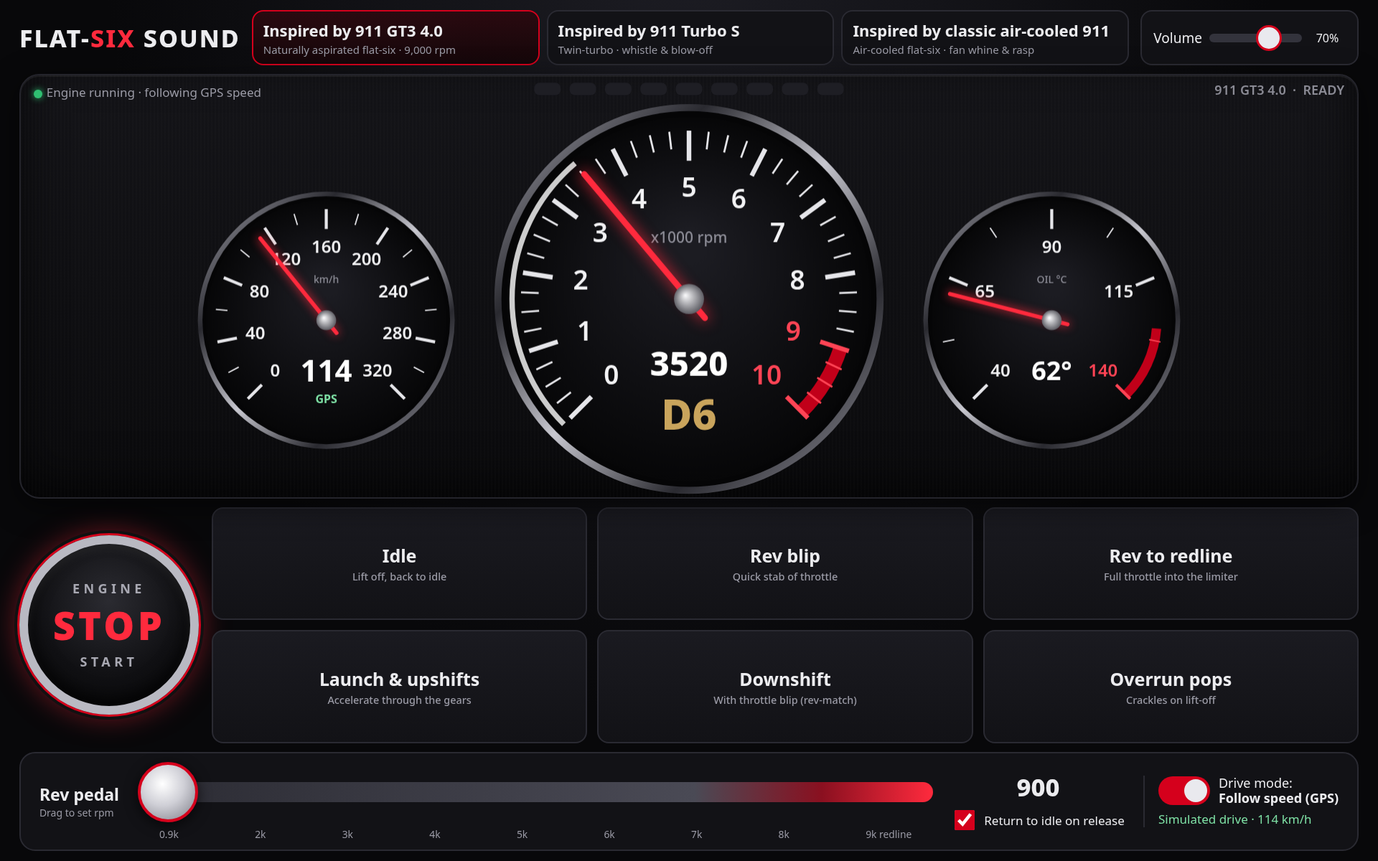
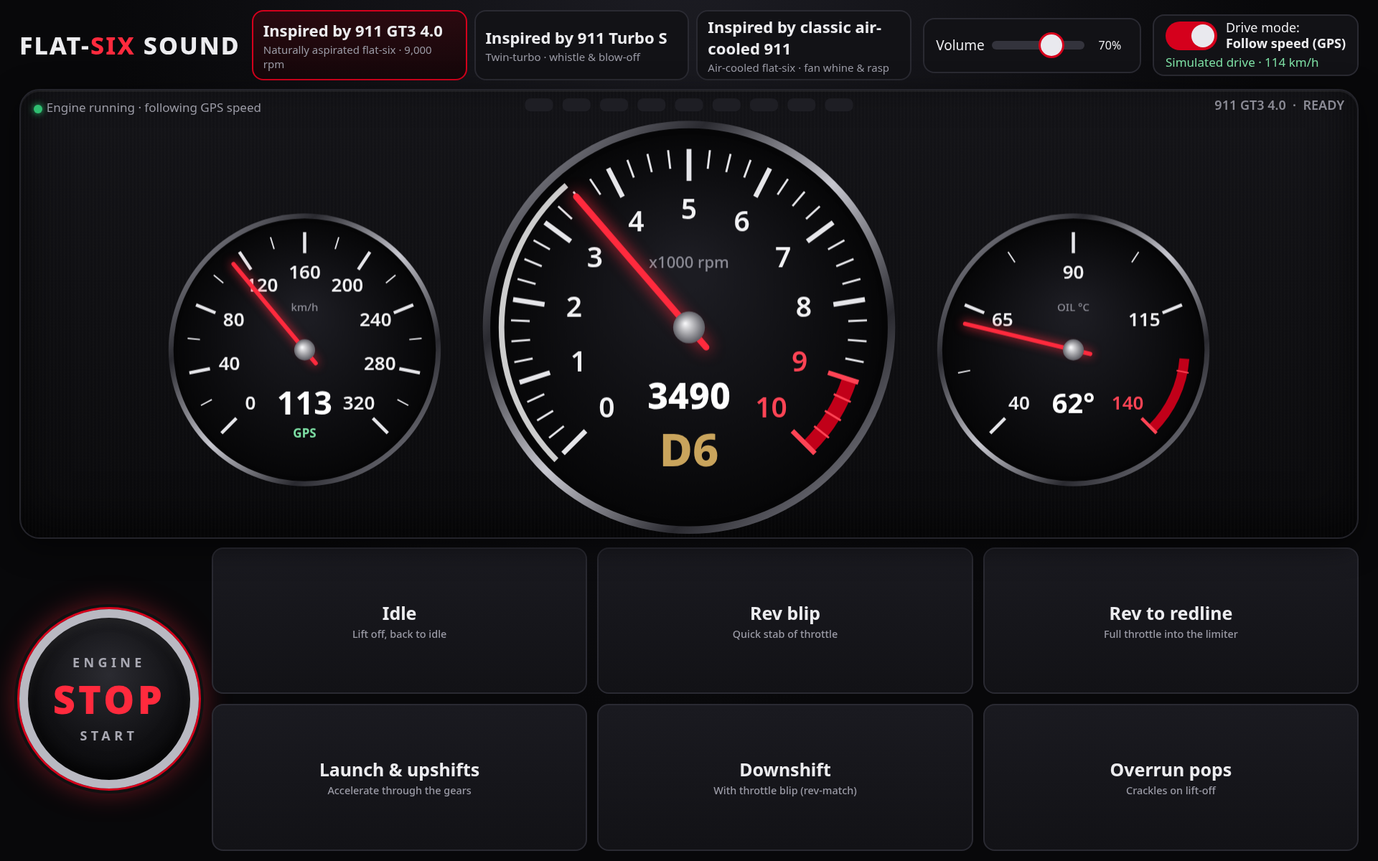
Remove manual rev pedal slider; GPS-off/unavailable now idles; tidy layout; SW cache v4

diff --git a/index.html b/index.html
@@ -37,7 +37,7 @@ h1 span{color:var(--red2)}
 .status i{display:inline-block;width:.7em;height:.7em;border-radius:50%;background:#555;margin-right:6px;vertical-align:middle}
 .status.on i{background:var(--ok);box-shadow:0 0 10px var(--ok)}
 .status.crank i{background:var(--gold)}
-.controls{display:flex;gap:clamp(10px,1vw,18px);flex:.7;min-height:0;align-items:stretch}
+.controls{display:flex;gap:clamp(10px,1vw,18px);flex:.85;min-height:0;align-items:stretch}
 .controls .grid{flex:1;display:grid;grid-template-columns:repeat(3,1fr);grid-auto-rows:1fr;gap:clamp(8px,.8vw,14px);min-width:0}
 .startstop{flex:none;align-self:center;width:clamp(170px,22vh,250px);height:clamp(170px,22vh,250px);border-radius:50%;cursor:pointer;touch-action:manipulation;
   display:flex;flex-direction:column;align-items:center;justify-content:center;gap:2px;color:#f2f2f4;
@@ -48,7 +48,7 @@ h1 span{color:var(--red2)}
 .startstop .ss-main{font-size:clamp(34px,4.6vh,54px);font-weight:900;letter-spacing:.08em}
 .startstop[aria-pressed="true"]{box-shadow:0 0 0 3px #d5001c,0 0 0 7px #111,0 0 40px #ff2a3d88,inset 0 6px 14px #ffffff14,inset 0 -10px 24px #000c}
 .startstop[aria-pressed="true"] .ss-main{color:#ff2a3d}
-.drive{display:flex;flex-direction:column;gap:6px;align-items:flex-start;padding-left:clamp(10px,1vw,20px);border-left:2px solid var(--line)}
+.drive{display:flex;flex-direction:column;gap:4px;justify-content:center;background:var(--panel);border:2px solid var(--line);border-radius:var(--radius);padding:6px 16px;min-height:clamp(56px,6.4vh,80px)}
 .switch{display:flex;align-items:center;gap:12px;cursor:pointer;font-size:clamp(13px,.95vw,18px);line-height:1.2}
 .switch input{position:absolute;opacity:0;width:1px;height:1px}
 .switch .knob{width:72px;height:40px;border-radius:20px;background:#33333c;position:relative;flex:none;transition:background .15s}
@@ -64,23 +64,11 @@ h1 span{color:var(--red2)}
 .btn.start{border-color:#1f6b45;background:linear-gradient(180deg,#123222,#0b1a12)}
 .btn.off{border-color:#6b1f28;background:linear-gradient(180deg,#32121a,#1a0b0e)}
 .btn.active{border-color:var(--red2);box-shadow:0 0 0 2px var(--red) inset}
-.revbar{background:var(--panel);border:2px solid var(--line);border-radius:22px;padding:clamp(6px,1vh,14px) clamp(14px,1.4vw,26px);display:grid;grid-template-columns:auto 1fr auto auto;align-items:center;gap:clamp(12px,1.4vw,26px)}
-.revbar .lbl{font-size:clamp(16px,1.2vw,24px);font-weight:700;white-space:nowrap}
-.revbar .lbl small{display:block;font-weight:400;font-size:clamp(11px,.75vw,14px);color:var(--dim)}
-.revval{font-size:clamp(20px,1.8vw,36px);font-weight:800;font-variant-numeric:tabular-nums;min-width:6ch;text-align:center}
-.ticks{display:flex;justify-content:space-between;font-size:clamp(11px,.72vw,14px);color:var(--dim);padding:0 30px;margin-top:2px}
 input[type=range]{-webkit-appearance:none;appearance:none;width:100%;background:transparent;margin:0;touch-action:none}
 input[type=range]:focus{outline:none}
-#rev{height:clamp(60px,7vh,90px)}
-#rev::-webkit-slider-runnable-track{height:28px;border-radius:14px;background:linear-gradient(90deg,#2b2b33 0%,#4a4a55 70%,#8a1020 86%,var(--red2) 100%)}
-#rev::-webkit-slider-thumb{-webkit-appearance:none;width:clamp(58px,4.4vw,84px);height:clamp(58px,4.4vw,84px);margin-top:calc((28px - clamp(58px,4.4vw,84px))/2);border-radius:50%;background:radial-gradient(circle at 40% 35%,#fff,#cfcfd6 45%,#7c7c86);border:4px solid var(--red);box-shadow:0 4px 18px #000a}
-#rev::-moz-range-track{height:28px;border-radius:14px;background:linear-gradient(90deg,#2b2b33,#4a4a55 70%,#8a1020 86%,var(--red2))}
-#rev::-moz-range-thumb{width:70px;height:70px;border-radius:50%;background:#ddd;border:4px solid var(--red)}
 .vol input::-webkit-slider-runnable-track{height:12px;border-radius:6px;background:#33333c}
 .vol input::-webkit-slider-thumb{-webkit-appearance:none;width:36px;height:36px;margin-top:-12px;border-radius:50%;background:#e9e9ee;border:3px solid var(--red)}
-.chk{display:flex;align-items:center;gap:10px;font-size:clamp(13px,.9vw,17px);white-space:nowrap;cursor:pointer}
-.chk input{width:28px;height:28px;accent-color:var(--red)}
-@media (max-width:1100px){html,body{overflow:auto}.controls .grid{grid-template-columns:1fr 1fr}.revbar{grid-template-columns:1fr}.cluster{min-height:320px}header{flex-wrap:wrap}}
+@media (max-width:1100px){html,body{overflow:auto}.controls .grid{grid-template-columns:1fr 1fr}.cluster{min-height:320px}header{flex-wrap:wrap}}
 </style>
 </head>
 <body>
@@ -88,6 +76,10 @@ input[type=range]:focus{outline:none}
   <h1>Flat-<span>Six</span> Sound</h1>
   <div class="presets" id="presets" role="group" aria-label="Engine character"></div>
   <div class="vol"><label for="vol">Volume</label><input type="range" id="vol" min="0" max="100" value="70"><output id="volOut">70%</output></div>
+  <div class="drive">
+    <label class="switch"><input type="checkbox" id="driveMode" checked><span class="knob"></span><span class="sw-lbl">Drive mode:<br><b>Follow speed (GPS)</b></span></label>
+    <div class="gps" id="gpsStatus">GPS off - idle</div>
+  </div>
 </header>
 <section class="cluster">
   <div class="status" id="status"><i></i><span id="statusTxt">Engine off</span></div>
@@ -102,16 +94,6 @@ input[type=range]:focus{outline:none}
     <button class="btn" data-cmd="launch">Launch &amp; upshifts<small>Accelerate through the gears</small></button>
     <button class="btn" data-cmd="downshift">Downshift<small>With throttle blip (rev-match)</small></button>
     <button class="btn" data-cmd="pops">Overrun pops<small>Crackles on lift-off</small></button>
-  </div>
-</section>
-<section class="revbar">
-  <div class="lbl">Rev pedal<small>Drag to set rpm</small></div>
-  <div><input type="range" id="rev" min="900" max="9000" step="10" value="900" aria-label="Target rpm"><div class="ticks" id="ticks"></div></div>
-  <div style="display:flex;flex-direction:column;align-items:center;gap:6px"><div class="revval" id="revVal">900</div>
-    <label class="chk"><input type="checkbox" id="springBack" checked>Return to idle on release</label></div>
-  <div class="drive">
-    <label class="switch"><input type="checkbox" id="driveMode" checked><span class="knob"></span><span class="sw-lbl">Drive mode:<br><b>Follow speed (GPS)</b></span></label>
-    <div class="gps" id="gpsStatus">GPS off</div>
   </div>
 </section>
 <script>
@@ -618,15 +600,7 @@ function setPreset(k) {
   document.querySelectorAll('.preset').forEach(b => b.setAttribute('aria-pressed', b.dataset.preset === k ? 'true' : 'false'));
   app.sim.setPreset(p);
   if (app.ctx) { const old = app.eng; app.eng = new Engine(app.ctx, p, app.ctx.destination); app.eng.out.gain.value = 0; app.eng.start(); app.eng.setVolume(app.vol); old.stop(); }
-  const rev = $('rev'); rev.min = p.idle; rev.max = p.redline; if (!app.sim.sliderTarget) rev.value = p.idle;
-  buildTicks(); updateRevVal();
 }
-function buildTicks() {
-  const p = PRESETS[app.preset], t = $('ticks'); t.innerHTML = '';
-  const marks = [p.idle]; for (let r = 2000; r < p.redline; r += 1000) marks.push(r); marks.push(p.redline);
-  for (const m of marks) { const s = document.createElement('span'); s.textContent = (m / 1000).toFixed(1).replace('.0', '') + 'k' + (m >= p.redline ? ' redline' : ''); t.appendChild(s); }
-}
-buildTicks();
 
 async function unlock() {
   if (app.ctx) return;
@@ -643,8 +617,8 @@ async function unlock() {
 
 /* ---------- GPS speed source (Follow-speed drive mode) ---------- */
 const gps = { id: null, status: 'off', kmh: null, acc: 0, fixT: 0, last: null, sim: /[?&]sim=1\b/.test(location.search), simTimer: null };
-const GPS_TXT = { off: 'GPS off', waiting: 'Waiting for GPS…', denied: 'Location permission denied', unavailable: 'GPS unavailable',
-  unsupported: 'Location not supported', insecure: 'Location needs HTTPS', timeout: 'GPS timeout – retrying', lost: 'GPS signal lost' };
+const GPS_TXT = { off: 'GPS off - idle', waiting: 'Waiting for GPS…', denied: 'Location denied - idle', unavailable: 'GPS unavailable - idle',
+  unsupported: 'Location not supported', insecure: 'Location needs HTTPS', timeout: 'GPS timeout – retrying', lost: 'GPS signal lost - idle' };
 function haversine(a, b) {
   const R = 6371000, toR = x => x * Math.PI / 180, dLa = toR(b.lat - a.lat), dLo = toR(b.lon - a.lon);
   const h = Math.sin(dLa / 2) ** 2 + Math.cos(toR(a.lat)) * Math.cos(toR(b.lat)) * Math.sin(dLo / 2) ** 2;
@@ -728,22 +702,9 @@ function tick() {
 document.querySelectorAll('[data-cmd]').forEach(b => b.addEventListener('click', () => {
   if (!app.ctx) unlock();
   if (app.ctx && app.ctx.state !== 'running') app.ctx.resume();
-  app.sim.sliderTarget = null; $('rev').value = PRESETS[app.preset].idle; updateRevVal();
   app.sim.command(b.dataset.cmd);
 }));
 
-const rev = $('rev');
-function updateRevVal() { $('revVal').textContent = Number(rev.value).toLocaleString('en-US'); }
-rev.addEventListener('input', () => {
-  if (!app.ctx) unlock();
-  const sim = app.sim;
-  if (!sim.running && !sim.cranking) sim.command('start');
-  else if (sim.prog && sim.prog.name !== 'start') { sim.prog = null; sim.gear = 0; sim.brake = 0; sim.shift = null; }
-  sim.sliderTarget = Number(rev.value); updateRevVal();
-});
-const release = () => { if ($('springBack').checked) { rev.value = PRESETS[app.preset].idle; app.sim.sliderTarget = null; updateRevVal(); } };
-['pointerup', 'touchend', 'touchcancel', 'mouseup', 'change'].forEach(ev => rev.addEventListener(ev, release));
-$('springBack').addEventListener('change', () => { if ($('springBack').checked) release(); });
 $('vol').addEventListener('input', e => { app.vol = e.target.value / 100; $('volOut').textContent = e.target.value + '%'; if (app.eng) app.eng.setVolume(app.vol); });
 
 
@@ -831,7 +792,7 @@ function draw() {
   $('statusTxt').textContent = { on: 'Engine running', crank: 'Cranking…', stopping: 'Shutting down…', off: 'Engine off' }[st] + (sim.drive ? ' · following GPS speed' : '') + (app.ctx && app.ctx.state !== 'running' ? ' · audio paused' : '');
   const on = sim.running || sim.cranking, sb = $('startBtn');
   if (sb.getAttribute('aria-pressed') !== String(on)) { sb.setAttribute('aria-pressed', String(on)); $('ssMain').textContent = on ? 'STOP' : 'START'; $('ssBot').textContent = on ? 'START' : 'STOP'; }
-  const ge = $('gpsStatus'), gt = !$('driveMode').checked ? 'Manual rev pedal' : gps.status === 'ok' ? (gps.sim ? 'Simulated drive · ' : 'GPS · ') + Math.round(gps.kmh) + ' km/h' : GPS_TXT[gps.status];
+  const ge = $('gpsStatus'), gt = !$('driveMode').checked ? 'GPS off - idle' : gps.status === 'ok' ? (gps.sim ? 'Simulated drive · ' : 'GPS · ') + Math.round(gps.kmh) + ' km/h' : GPS_TXT[gps.status];
   if (ge.textContent !== gt) ge.textContent = gt;
   ge.className = 'gps' + (gps.status === 'ok' && $('driveMode').checked ? ' ok' : '');
   document.querySelectorAll('[data-cmd]').forEach(b => b.classList.toggle('active', !!(sim.prog && sim.prog.name === b.dataset.cmd)));

diff --git a/porsche-sound-standalone.html b/porsche-sound-standalone.html
@@ -34,7 +34,7 @@ h1 span{color:var(--red2)}
 .status i{display:inline-block;width:.7em;height:.7em;border-radius:50%;background:#555;margin-right:6px;vertical-align:middle}
 .status.on i{background:var(--ok);box-shadow:0 0 10px var(--ok)}
 .status.crank i{background:var(--gold)}
-.controls{display:flex;gap:clamp(10px,1vw,18px);flex:.7;min-height:0;align-items:stretch}
+.controls{display:flex;gap:clamp(10px,1vw,18px);flex:.85;min-height:0;align-items:stretch}
 .controls .grid{flex:1;display:grid;grid-template-columns:repeat(3,1fr);grid-auto-rows:1fr;gap:clamp(8px,.8vw,14px);min-width:0}
 .startstop{flex:none;align-self:center;width:clamp(170px,22vh,250px);height:clamp(170px,22vh,250px);border-radius:50%;cursor:pointer;touch-action:manipulation;
   display:flex;flex-direction:column;align-items:center;justify-content:center;gap:2px;color:#f2f2f4;
@@ -45,7 +45,7 @@ h1 span{color:var(--red2)}
 .startstop .ss-main{font-size:clamp(34px,4.6vh,54px);font-weight:900;letter-spacing:.08em}
 .startstop[aria-pressed="true"]{box-shadow:0 0 0 3px #d5001c,0 0 0 7px #111,0 0 40px #ff2a3d88,inset 0 6px 14px #ffffff14,inset 0 -10px 24px #000c}
 .startstop[aria-pressed="true"] .ss-main{color:#ff2a3d}
-.drive{display:flex;flex-direction:column;gap:6px;align-items:flex-start;padding-left:clamp(10px,1vw,20px);border-left:2px solid var(--line)}
+.drive{display:flex;flex-direction:column;gap:4px;justify-content:center;background:var(--panel);border:2px solid var(--line);border-radius:var(--radius);padding:6px 16px;min-height:clamp(56px,6.4vh,80px)}
 .switch{display:flex;align-items:center;gap:12px;cursor:pointer;font-size:clamp(13px,.95vw,18px);line-height:1.2}
 .switch input{position:absolute;opacity:0;width:1px;height:1px}
 .switch .knob{width:72px;height:40px;border-radius:20px;background:#33333c;position:relative;flex:none;transition:background .15s}
@@ -61,23 +61,11 @@ h1 span{color:var(--red2)}
 .btn.start{border-color:#1f6b45;background:linear-gradient(180deg,#123222,#0b1a12)}
 .btn.off{border-color:#6b1f28;background:linear-gradient(180deg,#32121a,#1a0b0e)}
 .btn.active{border-color:var(--red2);box-shadow:0 0 0 2px var(--red) inset}
-.revbar{background:var(--panel);border:2px solid var(--line);border-radius:22px;padding:clamp(6px,1vh,14px) clamp(14px,1.4vw,26px);display:grid;grid-template-columns:auto 1fr auto auto;align-items:center;gap:clamp(12px,1.4vw,26px)}
-.revbar .lbl{font-size:clamp(16px,1.2vw,24px);font-weight:700;white-space:nowrap}
-.revbar .lbl small{display:block;font-weight:400;font-size:clamp(11px,.75vw,14px);color:var(--dim)}
-.revval{font-size:clamp(20px,1.8vw,36px);font-weight:800;font-variant-numeric:tabular-nums;min-width:6ch;text-align:center}
-.ticks{display:flex;justify-content:space-between;font-size:clamp(11px,.72vw,14px);color:var(--dim);padding:0 30px;margin-top:2px}
 input[type=range]{-webkit-appearance:none;appearance:none;width:100%;background:transparent;margin:0;touch-action:none}
 input[type=range]:focus{outline:none}
-#rev{height:clamp(60px,7vh,90px)}
-#rev::-webkit-slider-runnable-track{height:28px;border-radius:14px;background:linear-gradient(90deg,#2b2b33 0%,#4a4a55 70%,#8a1020 86%,var(--red2) 100%)}
-#rev::-webkit-slider-thumb{-webkit-appearance:none;width:clamp(58px,4.4vw,84px);height:clamp(58px,4.4vw,84px);margin-top:calc((28px - clamp(58px,4.4vw,84px))/2);border-radius:50%;background:radial-gradient(circle at 40% 35%,#fff,#cfcfd6 45%,#7c7c86);border:4px solid var(--red);box-shadow:0 4px 18px #000a}
-#rev::-moz-range-track{height:28px;border-radius:14px;background:linear-gradient(90deg,#2b2b33,#4a4a55 70%,#8a1020 86%,var(--red2))}
-#rev::-moz-range-thumb{width:70px;height:70px;border-radius:50%;background:#ddd;border:4px solid var(--red)}
 .vol input::-webkit-slider-runnable-track{height:12px;border-radius:6px;background:#33333c}
 .vol input::-webkit-slider-thumb{-webkit-appearance:none;width:36px;height:36px;margin-top:-12px;border-radius:50%;background:#e9e9ee;border:3px solid var(--red)}
-.chk{display:flex;align-items:center;gap:10px;font-size:clamp(13px,.9vw,17px);white-space:nowrap;cursor:pointer}
-.chk input{width:28px;height:28px;accent-color:var(--red)}
-@media (max-width:1100px){html,body{overflow:auto}.controls .grid{grid-template-columns:1fr 1fr}.revbar{grid-template-columns:1fr}.cluster{min-height:320px}header{flex-wrap:wrap}}
+@media (max-width:1100px){html,body{overflow:auto}.controls .grid{grid-template-columns:1fr 1fr}.cluster{min-height:320px}header{flex-wrap:wrap}}
 </style>
 </head>
 <body>
@@ -85,6 +73,10 @@ input[type=range]:focus{outline:none}
   <h1>Flat-<span>Six</span> Sound</h1>
   <div class="presets" id="presets" role="group" aria-label="Engine character"></div>
   <div class="vol"><label for="vol">Volume</label><input type="range" id="vol" min="0" max="100" value="70"><output id="volOut">70%</output></div>
+  <div class="drive">
+    <label class="switch"><input type="checkbox" id="driveMode" checked><span class="knob"></span><span class="sw-lbl">Drive mode:<br><b>Follow speed (GPS)</b></span></label>
+    <div class="gps" id="gpsStatus">GPS off - idle</div>
+  </div>
 </header>
 <section class="cluster">
   <div class="status" id="status"><i></i><span id="statusTxt">Engine off</span></div>
@@ -99,16 +91,6 @@ input[type=range]:focus{outline:none}
     <button class="btn" data-cmd="launch">Launch &amp; upshifts<small>Accelerate through the gears</small></button>
     <button class="btn" data-cmd="downshift">Downshift<small>With throttle blip (rev-match)</small></button>
     <button class="btn" data-cmd="pops">Overrun pops<small>Crackles on lift-off</small></button>
-  </div>
-</section>
-<section class="revbar">
-  <div class="lbl">Rev pedal<small>Drag to set rpm</small></div>
-  <div><input type="range" id="rev" min="900" max="9000" step="10" value="900" aria-label="Target rpm"><div class="ticks" id="ticks"></div></div>
-  <div style="display:flex;flex-direction:column;align-items:center;gap:6px"><div class="revval" id="revVal">900</div>
-    <label class="chk"><input type="checkbox" id="springBack" checked>Return to idle on release</label></div>
-  <div class="drive">
-    <label class="switch"><input type="checkbox" id="driveMode" checked><span class="knob"></span><span class="sw-lbl">Drive mode:<br><b>Follow speed (GPS)</b></span></label>
-    <div class="gps" id="gpsStatus">GPS off</div>
   </div>
 </section>
 <script>
@@ -615,15 +597,7 @@ function setPreset(k) {
   document.querySelectorAll('.preset').forEach(b => b.setAttribute('aria-pressed', b.dataset.preset === k ? 'true' : 'false'));
   app.sim.setPreset(p);
   if (app.ctx) { const old = app.eng; app.eng = new Engine(app.ctx, p, app.ctx.destination); app.eng.out.gain.value = 0; app.eng.start(); app.eng.setVolume(app.vol); old.stop(); }
-  const rev = $('rev'); rev.min = p.idle; rev.max = p.redline; if (!app.sim.sliderTarget) rev.value = p.idle;
-  buildTicks(); updateRevVal();
 }
-function buildTicks() {
-  const p = PRESETS[app.preset], t = $('ticks'); t.innerHTML = '';
-  const marks = [p.idle]; for (let r = 2000; r < p.redline; r += 1000) marks.push(r); marks.push(p.redline);
-  for (const m of marks) { const s = document.createElement('span'); s.textContent = (m / 1000).toFixed(1).replace('.0', '') + 'k' + (m >= p.redline ? ' redline' : ''); t.appendChild(s); }
-}
-buildTicks();
 
 async function unlock() {
   if (app.ctx) return;
@@ -640,8 +614,8 @@ async function unlock() {
 
 /* ---------- GPS speed source (Follow-speed drive mode) ---------- */
 const gps = { id: null, status: 'off', kmh: null, acc: 0, fixT: 0, last: null, sim: /[?&]sim=1\b/.test(location.search), simTimer: null };
-const GPS_TXT = { off: 'GPS off', waiting: 'Waiting for GPS…', denied: 'Location permission denied', unavailable: 'GPS unavailable',
-  unsupported: 'Location not supported', insecure: 'Location needs HTTPS', timeout: 'GPS timeout – retrying', lost: 'GPS signal lost' };
+const GPS_TXT = { off: 'GPS off - idle', waiting: 'Waiting for GPS…', denied: 'Location denied - idle', unavailable: 'GPS unavailable - idle',
+  unsupported: 'Location not supported', insecure: 'Location needs HTTPS', timeout: 'GPS timeout – retrying', lost: 'GPS signal lost - idle' };
 function haversine(a, b) {
   const R = 6371000, toR = x => x * Math.PI / 180, dLa = toR(b.lat - a.lat), dLo = toR(b.lon - a.lon);
   const h = Math.sin(dLa / 2) ** 2 + Math.cos(toR(a.lat)) * Math.cos(toR(b.lat)) * Math.sin(dLo / 2) ** 2;
@@ -725,22 +699,9 @@ function tick() {
 document.querySelectorAll('[data-cmd]').forEach(b => b.addEventListener('click', () => {
   if (!app.ctx) unlock();
   if (app.ctx && app.ctx.state !== 'running') app.ctx.resume();
-  app.sim.sliderTarget = null; $('rev').value = PRESETS[app.preset].idle; updateRevVal();
   app.sim.command(b.dataset.cmd);
 }));
 
-const rev = $('rev');
-function updateRevVal() { $('revVal').textContent = Number(rev.value).toLocaleString('en-US'); }
-rev.addEventListener('input', () => {
-  if (!app.ctx) unlock();
-  const sim = app.sim;
-  if (!sim.running && !sim.cranking) sim.command('start');
-  else if (sim.prog && sim.prog.name !== 'start') { sim.prog = null; sim.gear = 0; sim.brake = 0; sim.shift = null; }
-  sim.sliderTarget = Number(rev.value); updateRevVal();
-});
-const release = () => { if ($('springBack').checked) { rev.value = PRESETS[app.preset].idle; app.sim.sliderTarget = null; updateRevVal(); } };
-['pointerup', 'touchend', 'touchcancel', 'mouseup', 'change'].forEach(ev => rev.addEventListener(ev, release));
-$('springBack').addEventListener('change', () => { if ($('springBack').checked) release(); });
 $('vol').addEventListener('input', e => { app.vol = e.target.value / 100; $('volOut').textContent = e.target.value + '%'; if (app.eng) app.eng.setVolume(app.vol); });
 
 
@@ -828,7 +789,7 @@ function draw() {
   $('statusTxt').textContent = { on: 'Engine running', crank: 'Cranking…', stopping: 'Shutting down…', off: 'Engine off' }[st] + (sim.drive ? ' · following GPS speed' : '') + (app.ctx && app.ctx.state !== 'running' ? ' · audio paused' : '');
   const on = sim.running || sim.cranking, sb = $('startBtn');
   if (sb.getAttribute('aria-pressed') !== String(on)) { sb.setAttribute('aria-pressed', String(on)); $('ssMain').textContent = on ? 'STOP' : 'START'; $('ssBot').textContent = on ? 'START' : 'STOP'; }
-  const ge = $('gpsStatus'), gt = !$('driveMode').checked ? 'Manual rev pedal' : gps.status === 'ok' ? (gps.sim ? 'Simulated drive · ' : 'GPS · ') + Math.round(gps.kmh) + ' km/h' : GPS_TXT[gps.status];
+  const ge = $('gpsStatus'), gt = !$('driveMode').checked ? 'GPS off - idle' : gps.status === 'ok' ? (gps.sim ? 'Simulated drive · ' : 'GPS · ') + Math.round(gps.kmh) + ' km/h' : GPS_TXT[gps.status];
   if (ge.textContent !== gt) ge.textContent = gt;
   ge.className = 'gps' + (gps.status === 'ok' && $('driveMode').checked ? ' ok' : '');
   document.querySelectorAll('[data-cmd]').forEach(b => b.classList.toggle('active', !!(sim.prog && sim.prog.name === b.dataset.cmd)));

diff --git a/sw.js b/sw.js
@@ -1,5 +1,5 @@
 /* Service worker: caches the whole app for offline use after the first online load. */
-const CACHE = 'boxer6-v3-drive';
+const CACHE = 'boxer6-v4-noslider';
 const ASSETS = ['./', './index.html', './manifest.json', './icon.svg', './icon-192.png', './icon-512.png'];
 
 self.addEventListener('install', (e) => {

diff --git a/README.md b/README.md
@@ -13,7 +13,7 @@ It has no sound files, external libraries, CDNs or web fonts. Everything is gene
 | `manifest.json`, `icon.svg`, `icon-192.png`, `icon-512.png` | Web app manifest and icons |
 | `porsche-sound-standalone.html` | Single-file build with no service worker or extra files (also works opened locally) |
 | `build_standalone.py` | Rebuilds the standalone file from `index.html` |
-| `preview.png`, `preview-drive.png` | 1920x1200 screenshots (manual mode, and Follow-speed mode at ~114 km/h) |
+| `preview.png`, `preview-drive.png` | 1920x1200 screenshots (GPS off with action buttons, and Follow-speed mode at ~114 km/h) |
 | `tesla-mockup.png` | Illustrative mockup of the app inside a Tesla-style browser (not a real Tesla screenshot) |
 | `preview.wav` | Offline-rendered demo (GT3, Turbo S, classic) |
 
@@ -31,7 +31,7 @@ The Tesla browser **cannot open local files or HTML from a USB drive**, so the f
 
 ### Notes on GPS
 - The Tesla browser supports location on recent software versions and asks for permission the first time; if it was refused, re-allow location for the site in the browser settings.
-- GPS updates about once per second, so the sound lags real speed changes by roughly 0.5–1.5 s (the app extrapolates between fixes to hide steps). In tunnels or parking garages the signal drops and the app falls back to manual control.
+- GPS updates about once per second, so the sound lags real speed changes by roughly 0.5–1.5 s (the app extrapolates between fixes to hide steps). In tunnels or parking garages the signal drops and the engine falls back to idle (action buttons still work).
 
 ### Important notes
 - The Tesla browser generally plays audio in Park. Some software versions also play it while driving, but this varies.
@@ -42,9 +42,8 @@ The Tesla browser **cannot open local files or HTML from a USB drive**, so the f
 ## Using it
 - **Character**: GT3 4.0 naturally aspirated (9,000 rpm redline), Turbo S twin-turbo (turbo whistle and blow-off valve), classic air-cooled 911 (cooling-fan whine, rasp and pops).
 - **ENGINE START / STOP**: big round button – starter crank, catch and settle to idle; press again for shutdown.
-- **Drive mode: Follow speed (GPS)** (on by default): the app reads your speed with `navigator.geolocation.watchPosition` (high accuracy; uses `coords.speed`, or computes speed from successive positions when it's missing), smooths it, and maps it to rpm through a simulated 7-speed PDK with per-preset ratios. Hard acceleration upshifts around 6,000–6,500 rpm, gentle cruising shifts early, slowing down downshifts (with rev-match blips) and stopping returns to idle. Accelerating adds load (more intake/exhaust and boost); coasting gives overrun crackle. The speedometer shows the GPS speed and the tach shows the gear (D1–D7). Status shows "Waiting for GPS…", "Location permission denied", "GPS unavailable" or "GPS signal lost" when relevant; without GPS the manual controls work as before.
+- **Drive mode: Follow speed (GPS)** (on by default): the app reads your speed with `navigator.geolocation.watchPosition` (high accuracy; uses `coords.speed`, or computes speed from successive positions when it's missing), smooths it, and maps it to rpm through a simulated 7-speed PDK with per-preset ratios. Hard acceleration upshifts around 6,000–6,500 rpm, gentle cruising shifts early, slowing down downshifts (with rev-match blips) and stopping returns to idle. Accelerating adds load (more intake/exhaust and boost); coasting gives overrun crackle. The speedometer shows the GPS speed and the tach shows the gear (D1–D7). Status shows "Waiting for GPS…", "Location denied - idle", "GPS unavailable - idle", "GPS signal lost - idle" or "GPS off - idle"; without GPS the engine idles and the action buttons still work.
 - **Debug drive**: add `?sim=1` to the URL to fake a 0 → 120 → 0 km/h drive.
-- **Rev pedal**: drag the slider from idle to redline. "Return to idle on release" snaps it back when you let go.
 - **Buttons**: Idle, Rev blip, Rev to redline (into the limiter), Launch & upshifts, Downshift with blip, Overrun pops.
 - **Cluster**: center tachometer with shift lights, speedometer, and a boost gauge (Turbo) or oil temperature (other presets).
 
